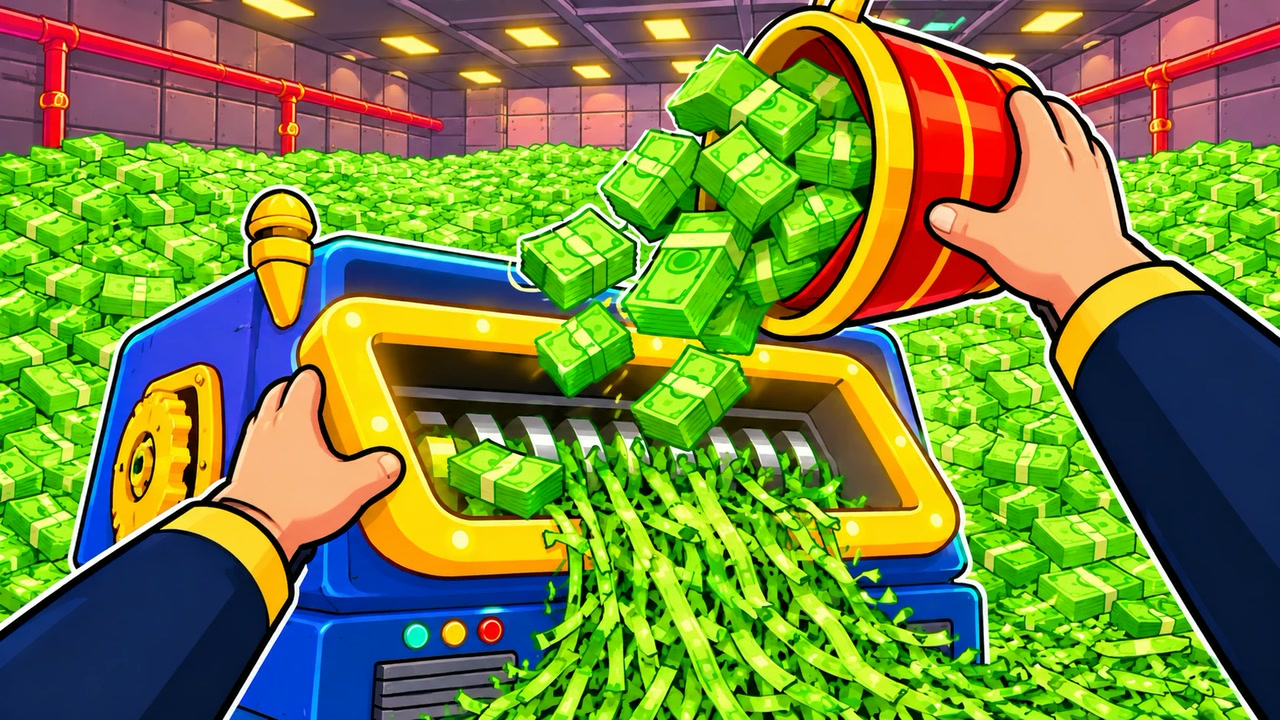
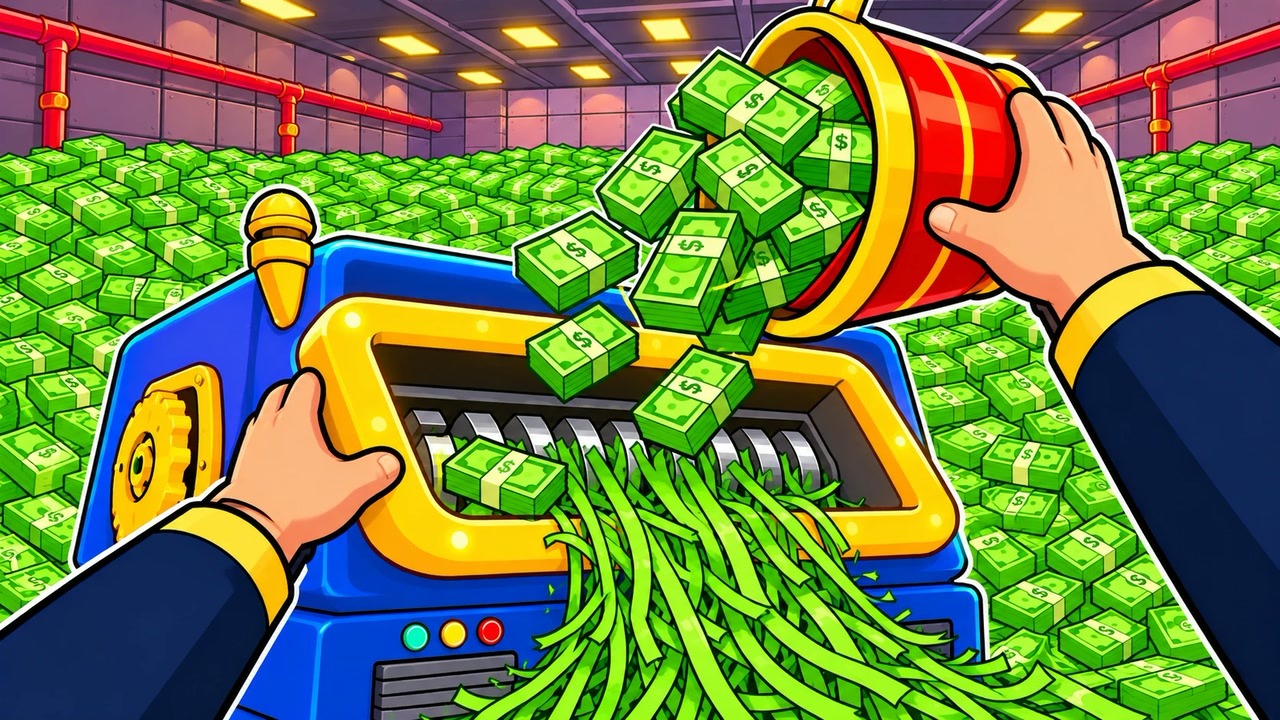
SHRED A BILLION: final thumbnail with crisp money bundles + video reference frames

diff --git a/videos/2026-11-12-shred-a-billion.md b/videos/2026-11-12-shred-a-billion.md
@@ -82,7 +82,7 @@ brimlo_score_title (estimate, 11 Nov 2026): A 73 · B 83 · C 76. A changed to "
 
 ## Thumbnail idea
 
-**Final:** [thumbnails/2026-11-12-shred-a-billion.jpg](thumbnails/2026-11-12-shred-a-billion.jpg) (1280x720 JPG, made from Mamunur's GPT result .webp, Wed 11 Nov 2026). Checked: 2 hands, no text, no corner boxes, readable at phone size (blue shredder + red bucket pop on the green). Gloves fixed (Wed 11 Nov 2026): first version had black gloves copied from the game screenshot; GPT hand-only edit → bare peach hands like all other Brimlo thumbnails.
+**Final:** [thumbnails/2026-11-12-shred-a-billion.jpg](thumbnails/2026-11-12-shred-a-billion.jpg) (1280x720 JPG, made from Mamunur's GPT result .webp, Wed 11 Nov 2026). Checked: 2 hands, no text, no corner boxes, readable at phone size (blue shredder + red bucket pop on the green). Gloves fixed (Wed 11 Nov 2026): first version had black gloves copied from the game screenshot; GPT hand-only edit → bare peach hands like all other Brimlo thumbnails. Then a money-only edit with sharp video frames as reference (`thumbnails/refs/shred-00-07-26.jpg`, `shred-00-49-05.jpg`) → crisp outlined bundles with the game's $ band.
 
 - Type: tiny tool vs huge job (house style v3: POV hands DOING the job), no text
 - Attach frames: `tools/transcribe/out/2026-11-12-shred-a-billion/frames/04_00-10-24.jpg` (full vault, counter 104.562.797) and `17_00-49-05.jpg` (the shredder + bucket)
